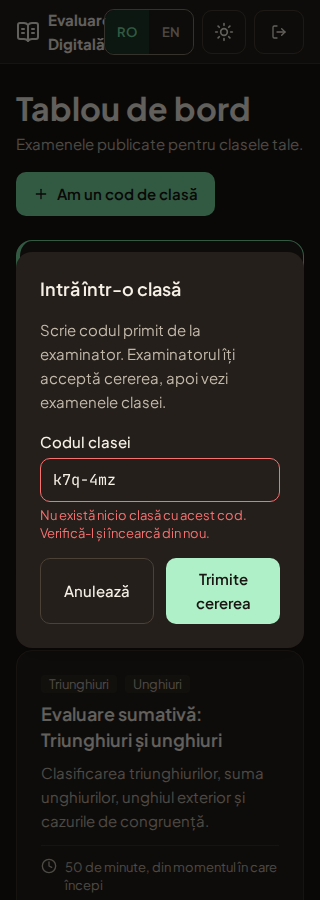
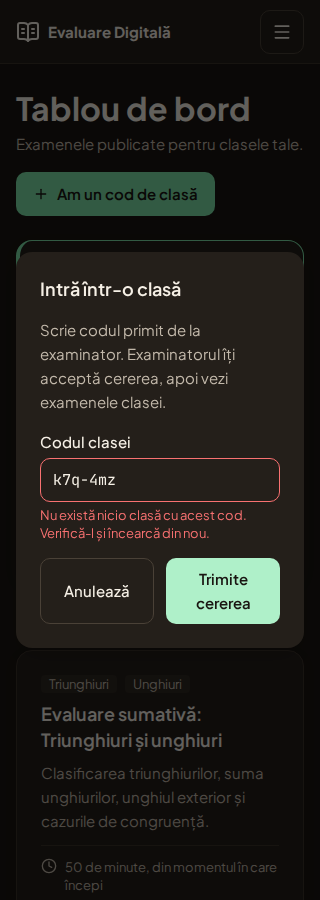
fix(frontend): signed-in Candidates get the menu drawer on phones, so the header no longer overlaps the app name
The Candidate has no nav, so the language, theme and log-out stayed in the bar at 320 px and covered
"Evaluare Digitală". Every signed-in role now moves them into the drawer below tablet width, as the
DS-003 mock shows. DS-003 screenshots updated.

Changed region(s): [[0.125, 0.0, 0.5625, 0.0622], [0.8438, 0.0311, 0.9062, 0.0622], [0.6875, 0.0311, 0.7188, 0.0622]]

diff --git a/frontend/src/components/AppHeader.tsx b/frontend/src/components/AppHeader.tsx
@@ -20,8 +20,9 @@ const navigation: Partial<Record<Role, { label: string; links: { to: string; lab
 const navLinkClass = ({ isActive }: { isActive: boolean }) =>
   `flex min-h-hit items-center rounded-md px-3 font-medium no-underline ${isActive ? 'bg-primary-subtle text-accent' : 'text-secondary'} ${focusRing}`
 
-// mock.css `.app-header`. Signed out (auth screens) the toggles stay visible on mobile; with a
-// nav (DS-013) the nav, toggles and log-out move into the menu drawer below tablet width.
+// mock.css `.app-header`. Signed out (auth screens) the toggles stay visible on mobile; signed in,
+// the nav (if the role has one, DS-013), toggles and log-out move into the menu drawer below tablet
+// width (DS-003 for the Candidate, who has no nav).
 export default function AppHeader() {
   const { t, i18n } = useTranslation()
   const { user: signedIn, logout } = useAuth()
@@ -33,7 +34,7 @@ export default function AppHeader() {
   const nav = user ? navigation[user.role] : undefined
   const links = nav?.links ?? []
   const hasNav = links.length > 0
-  const desktopOnly = hasNav ? 'hidden tablet:inline-flex' : ''
+  const desktopOnly = user ? 'hidden tablet:inline-flex' : ''
 
   function toggleTheme() {
     const next = theme === 'dark' ? 'light' : 'dark'
@@ -84,10 +85,10 @@ export default function AppHeader() {
         {user && (
           <Button onClick={() => logout()} className={desktopOnly}>
             <LogOut className="size-icon-sm" aria-hidden="true" />
-            <span className={hasNav ? '' : 'sr-only tablet:not-sr-only'}>{t('header.logout')}</span>
+            {t('header.logout')}
           </Button>
         )}
-        {hasNav && (
+        {user && (
           <Button iconOnly aria-label={t('nav.open')} className="tablet:hidden" onClick={() => setMenuOpen(true)}>
             <Menu className="size-icon-md" aria-hidden="true" />
           </Button>
@@ -104,10 +105,14 @@ export default function AppHeader() {
             </Button>
           }
         >
-          <nav aria-label={t(nav!.label)} className="grid gap-1">
-            {navLinks}
-          </nav>
-          <hr className="border-subtle" />
+          {hasNav && (
+            <>
+              <nav aria-label={t(nav!.label)} className="grid gap-1">
+                {navLinks}
+              </nav>
+              <hr className="border-subtle" />
+            </>
+          )}
           <div className="grid gap-2">
             <span className="font-medium">{t('header.language')}</span>
             <div>{languageToggle}</div>
